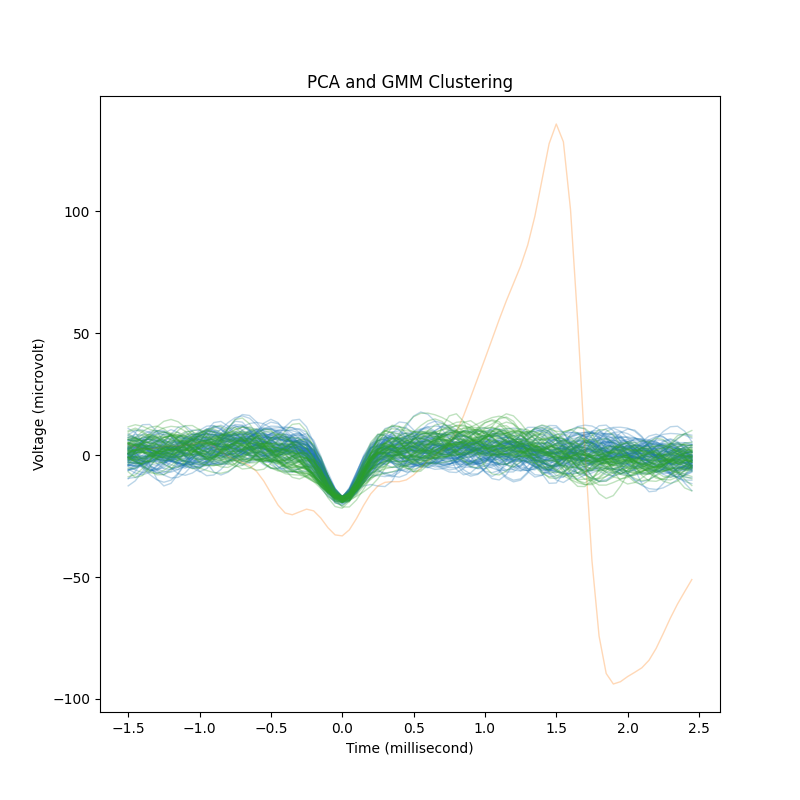
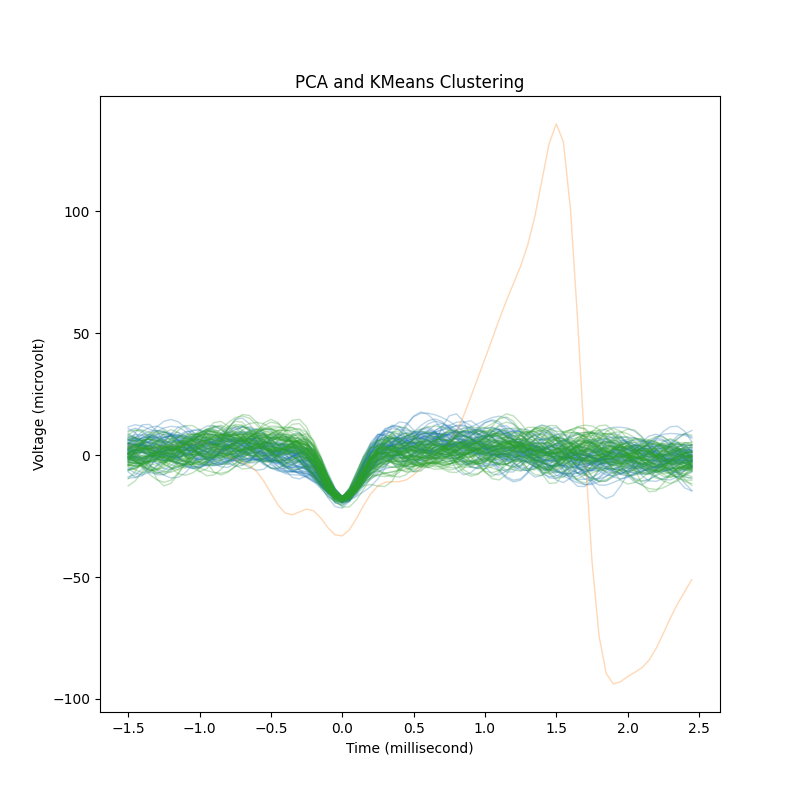
Edit more things

Changed region(s): [[0.1562, 0.5, 0.875, 0.625], [0.375, 0.0938, 0.6562, 0.125]]

diff --git a/main.py b/main.py
@@ -35,7 +35,7 @@ from modules.filters import lowpass_filter, bandpass_filter, wavelet_filter
 from modules.preprocessing import preprocess_file, preprocess_signal
 from modules.processing import thresholding_voltage
 from modules.visualization import plot_processed_signal, plot_spike_raster, plot_mean_waveform, plot_GMM_clusters, plot_autocorrelogram
-from modules.analysis import isi_function, pca_dimension_reduction, gmm_clustering, umap_dimension_reduction
+from modules.analysis import isi_function, pca_dimension_reduction, gmm_clustering, umap_dimension_reduction, kmeans_clustering
 import config
 
 # Open file
@@ -43,9 +43,11 @@ FILE_PATH = config.FILENAME
 # Get specific analog signal using index from config
 CHANNEL_NMR = config.CHANNEL_NMR 
 signal, electrode_stream, fs = preprocess_file(FILE_PATH, CHANNEL_NMR)
-
+#NOTE: this is just for the purposes of the demo, usually would use whole signal but there is one really big spike
+#signal = signal[0:2000000]
 # Filtering
-duration = electrode_stream.channel_data.shape[1]/fs.magnitude
+#duration = electrode_stream.channel_data.shape[1]/fs.magnitude
+duration = len(signal)/fs.magnitude
 print(duration)
 # Plot original unfiltered signal
 plot_signal(signal=signal, fs = fs.magnitude, title=f"Unfiltered Signal of Channel {CHANNEL_NMR}", dur = duration)
@@ -69,16 +71,24 @@ plot_mean_waveform(cutouts,fs.magnitude)
 plot_autocorrelogram(spikes_in_range)
 
 # Do PCA and UMAP analysis with GMM
-if(config.PCA_ANALYSIS == True):
+if(config.PCA_ANALYSIS == True and config.GMM_CLUSTERING == True):
     transformed = pca_dimension_reduction(config.PCA_NUMBER,cutouts)
     labels = gmm_clustering(config.GMM_COMPONENTS, transformed)
     plot_GMM_clusters(cutouts, labels, config.GMM_COMPONENTS,pre=0.0015,post=0.0025, fs = fs.magnitude, title = "PCA and GMM Clustering")
-elif(config.UMAP_ANALYSIS == True):
+elif(config.UMAP_ANALYSIS == True and config.GMM_CLUSTERING == True):
     transformed = umap_dimension_reduction(cutouts)
     labels = gmm_clustering(config.GMM_COMPONENTS, transformed)
     plot_GMM_clusters(cutouts, labels, config.GMM_COMPONENTS,pre=0.0015,post=0.0025, fs = fs.magnitude, title = "UMAP and GMM Clustering")
 
+if(config.PCA_ANALYSIS == True and config.KMEANS_CLUSTERING == True):
+    transformed = pca_dimension_reduction(config.PCA_NUMBER,cutouts)
+    labels = kmeans_clustering(config.KMEANS_CLUSTERS, transformed)
+    plot_GMM_clusters(cutouts, labels, config.KMEANS_CLUSTERS,pre=0.0015,post=0.0025, fs = fs.magnitude, title = "PCA and KMeans Clustering")
 
+elif(config.UMAP_ANALYSIS == True and config.KMEANS_CLUSTERING == True):
+    transformed = umap_dimension_reduction(cutouts)
+    labels = kmeans_clustering(config.KMEANS_CLUSTERS, transformed)
+    plot_GMM_clusters(cutouts, labels, config.KMEANS_CLUSTERS,pre=0.0015,post=0.0025, fs = fs.magnitude, title = "PCA and KMeans Clustering")
 
 
 

diff --git a/modules/analysis.py b/modules/analysis.py
@@ -5,7 +5,9 @@ from sklearn.decomposition import PCA
 from sklearn.preprocessing import StandardScaler
 import config
 import matplotlib.pyplot as plt
-from sklearn.mixture import GaussianMixture
+from sklearn.mixture import GaussianMixture  
+from sklearn.cluster import KMeans
+
 import umap
 import numpy as np
 
@@ -25,6 +27,22 @@ def pca_dimension_reduction(PCA_NUMBER, cutouts):
     pca.n_components = PCA_NUMBER
     transformed = pca.fit_transform(scaled_cutouts)
     return transformed
+
+def kmeans_clustering(n_components, transformed):
+    kmeans = KMeans(n_clusters=n_components, random_state=0, n_init="auto").fit(transformed)
+    labels = kmeans.labels_
+    _ = plt.figure(figsize=(8,8))
+    for i in range(n_components):
+        idx = labels == i
+        _ = plt.plot(transformed[idx,0], transformed[idx,1],'.')
+        _ = plt.title('Cluster assignments by KMeans')
+        _ = plt.xlabel('Principal Component 1')
+        _ = plt.ylabel('Principal Component 2')
+        _ = plt.axis('tight')
+    plt.savefig("./imgs/KMeans Clustering.png")
+    plt.show()
+    return labels
+
 
 
 def gmm_clustering(n_components, transformed):

diff --git a/config.py b/config.py
@@ -20,7 +20,7 @@ HIGHPASS_CUTOFF = 0.5
 
 # Bandpass filter cutoffs
 BANDPASS_LOW = 300
-BANDPASS_HIGH = 3000 # To filter out electrical line noise 
+BANDPASS_HIGH = 3000 # To get spikes 
 
 # Wavelet filter params
 wavelet_filter = {'NAME':"db4",'LEVEL':None,'MODE':"soft",'TH':1.0}
@@ -32,4 +32,7 @@ UMAP_ANALYSIS = False
 PCA_NUMBER = 2
 
 # Clustering params
+KMEANS_CLUSTERING = True
+GMM_CLUSTERING = False
 GMM_COMPONENTS = 3
+KMEANS_CLUSTERS = 3
